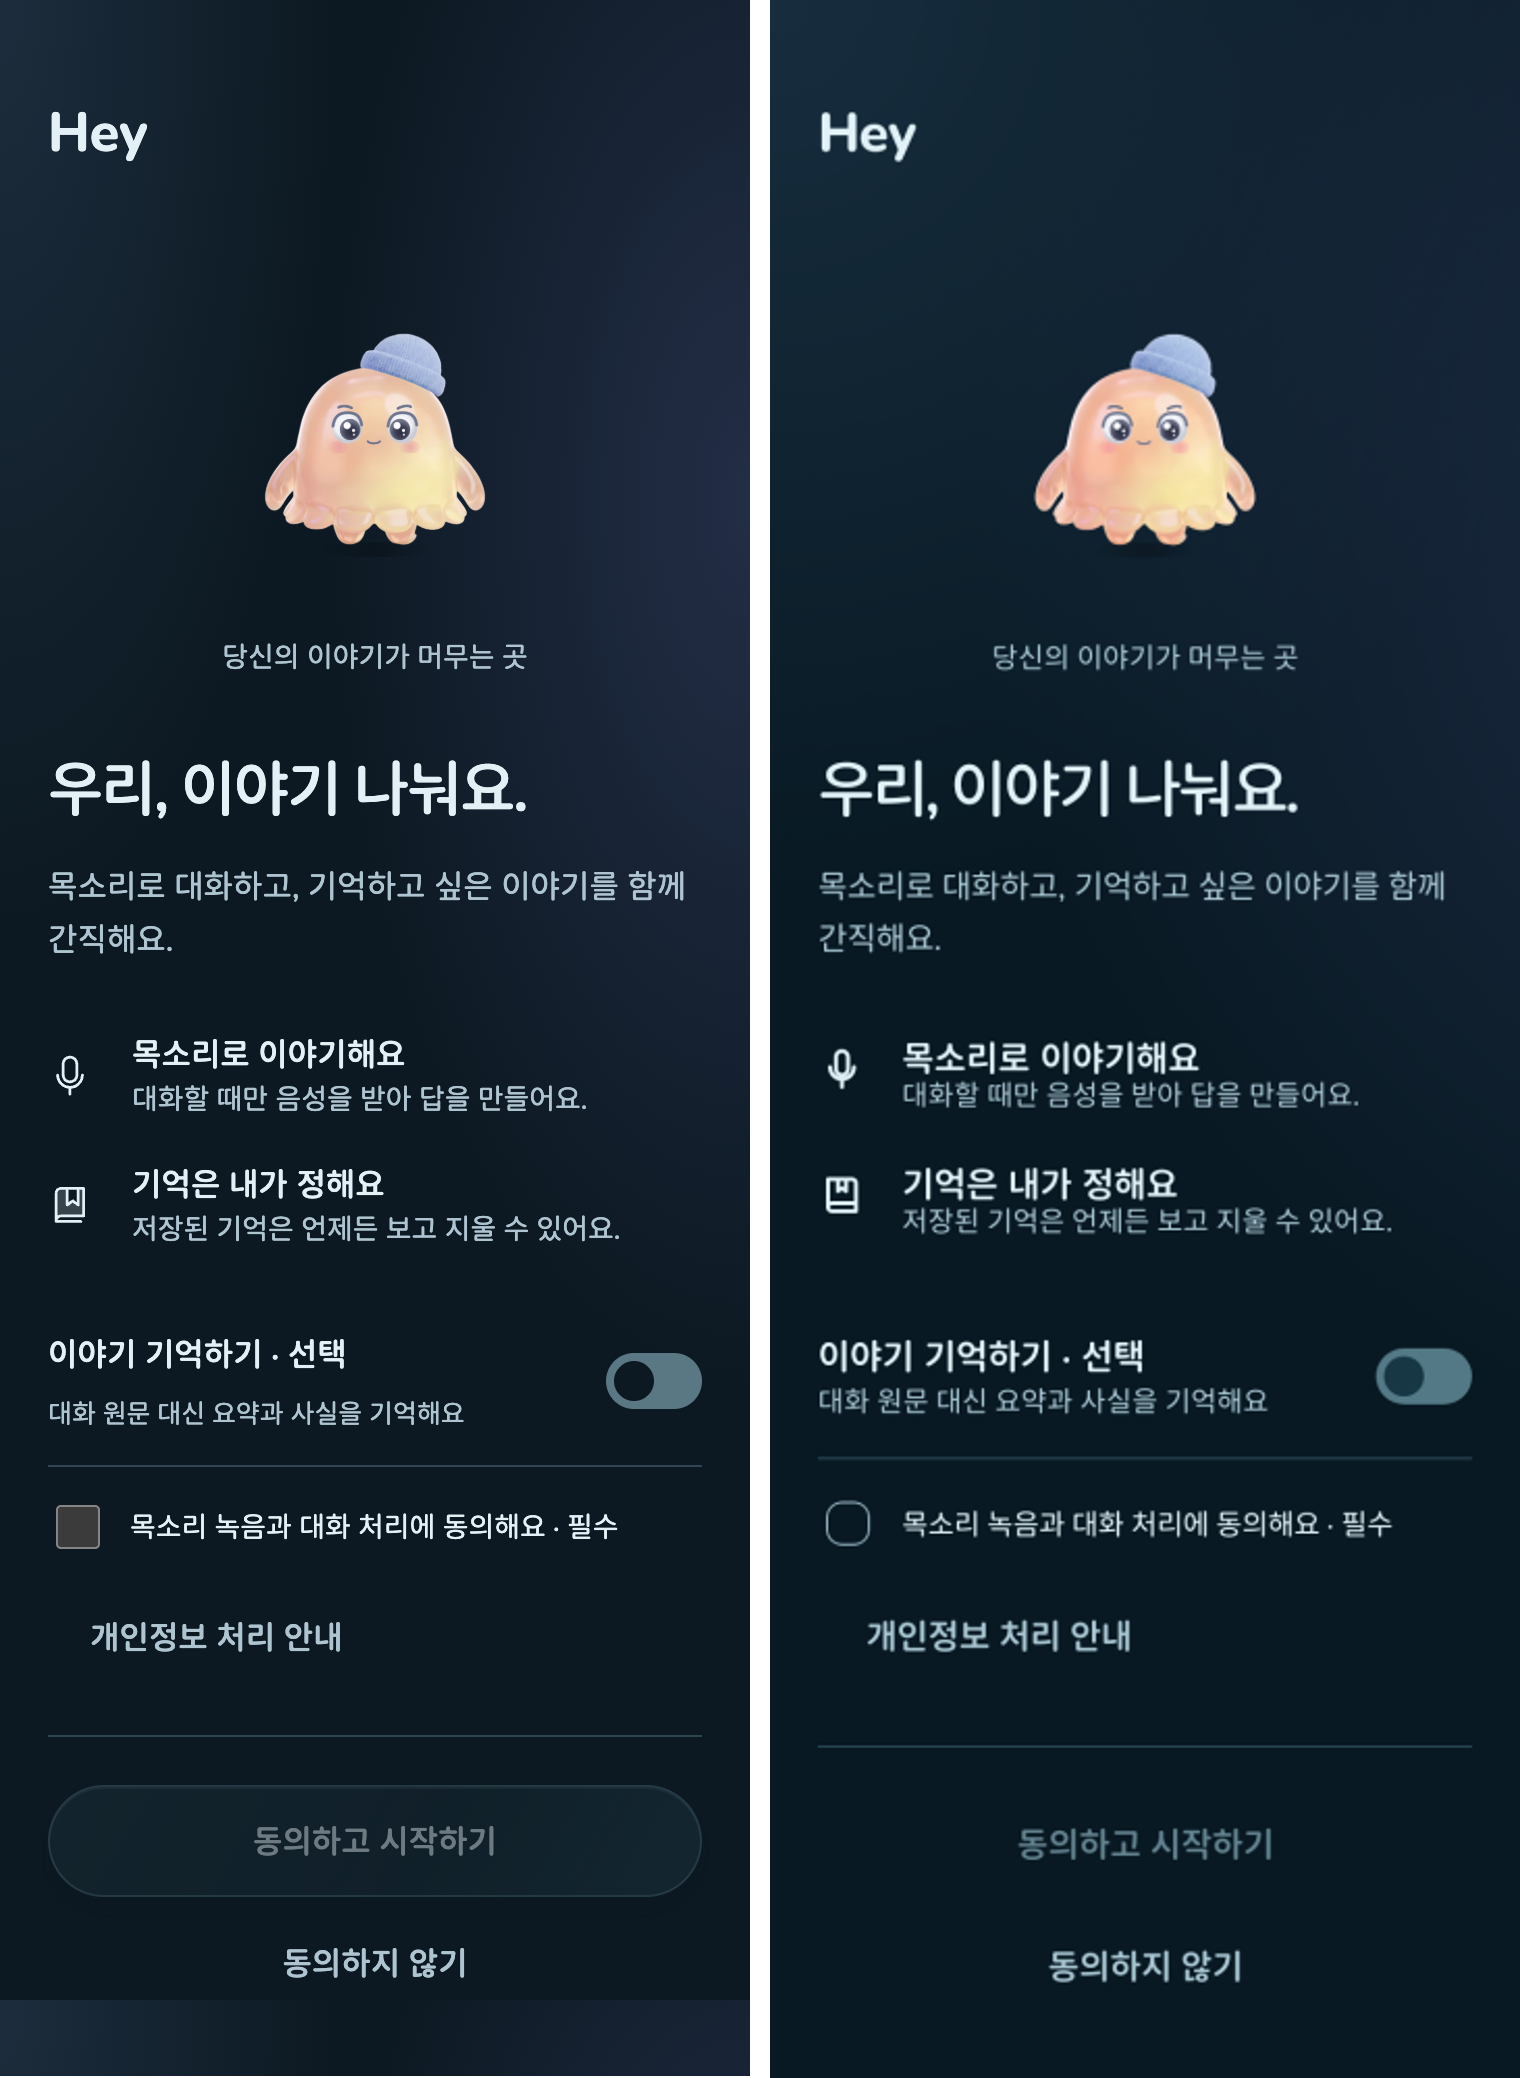
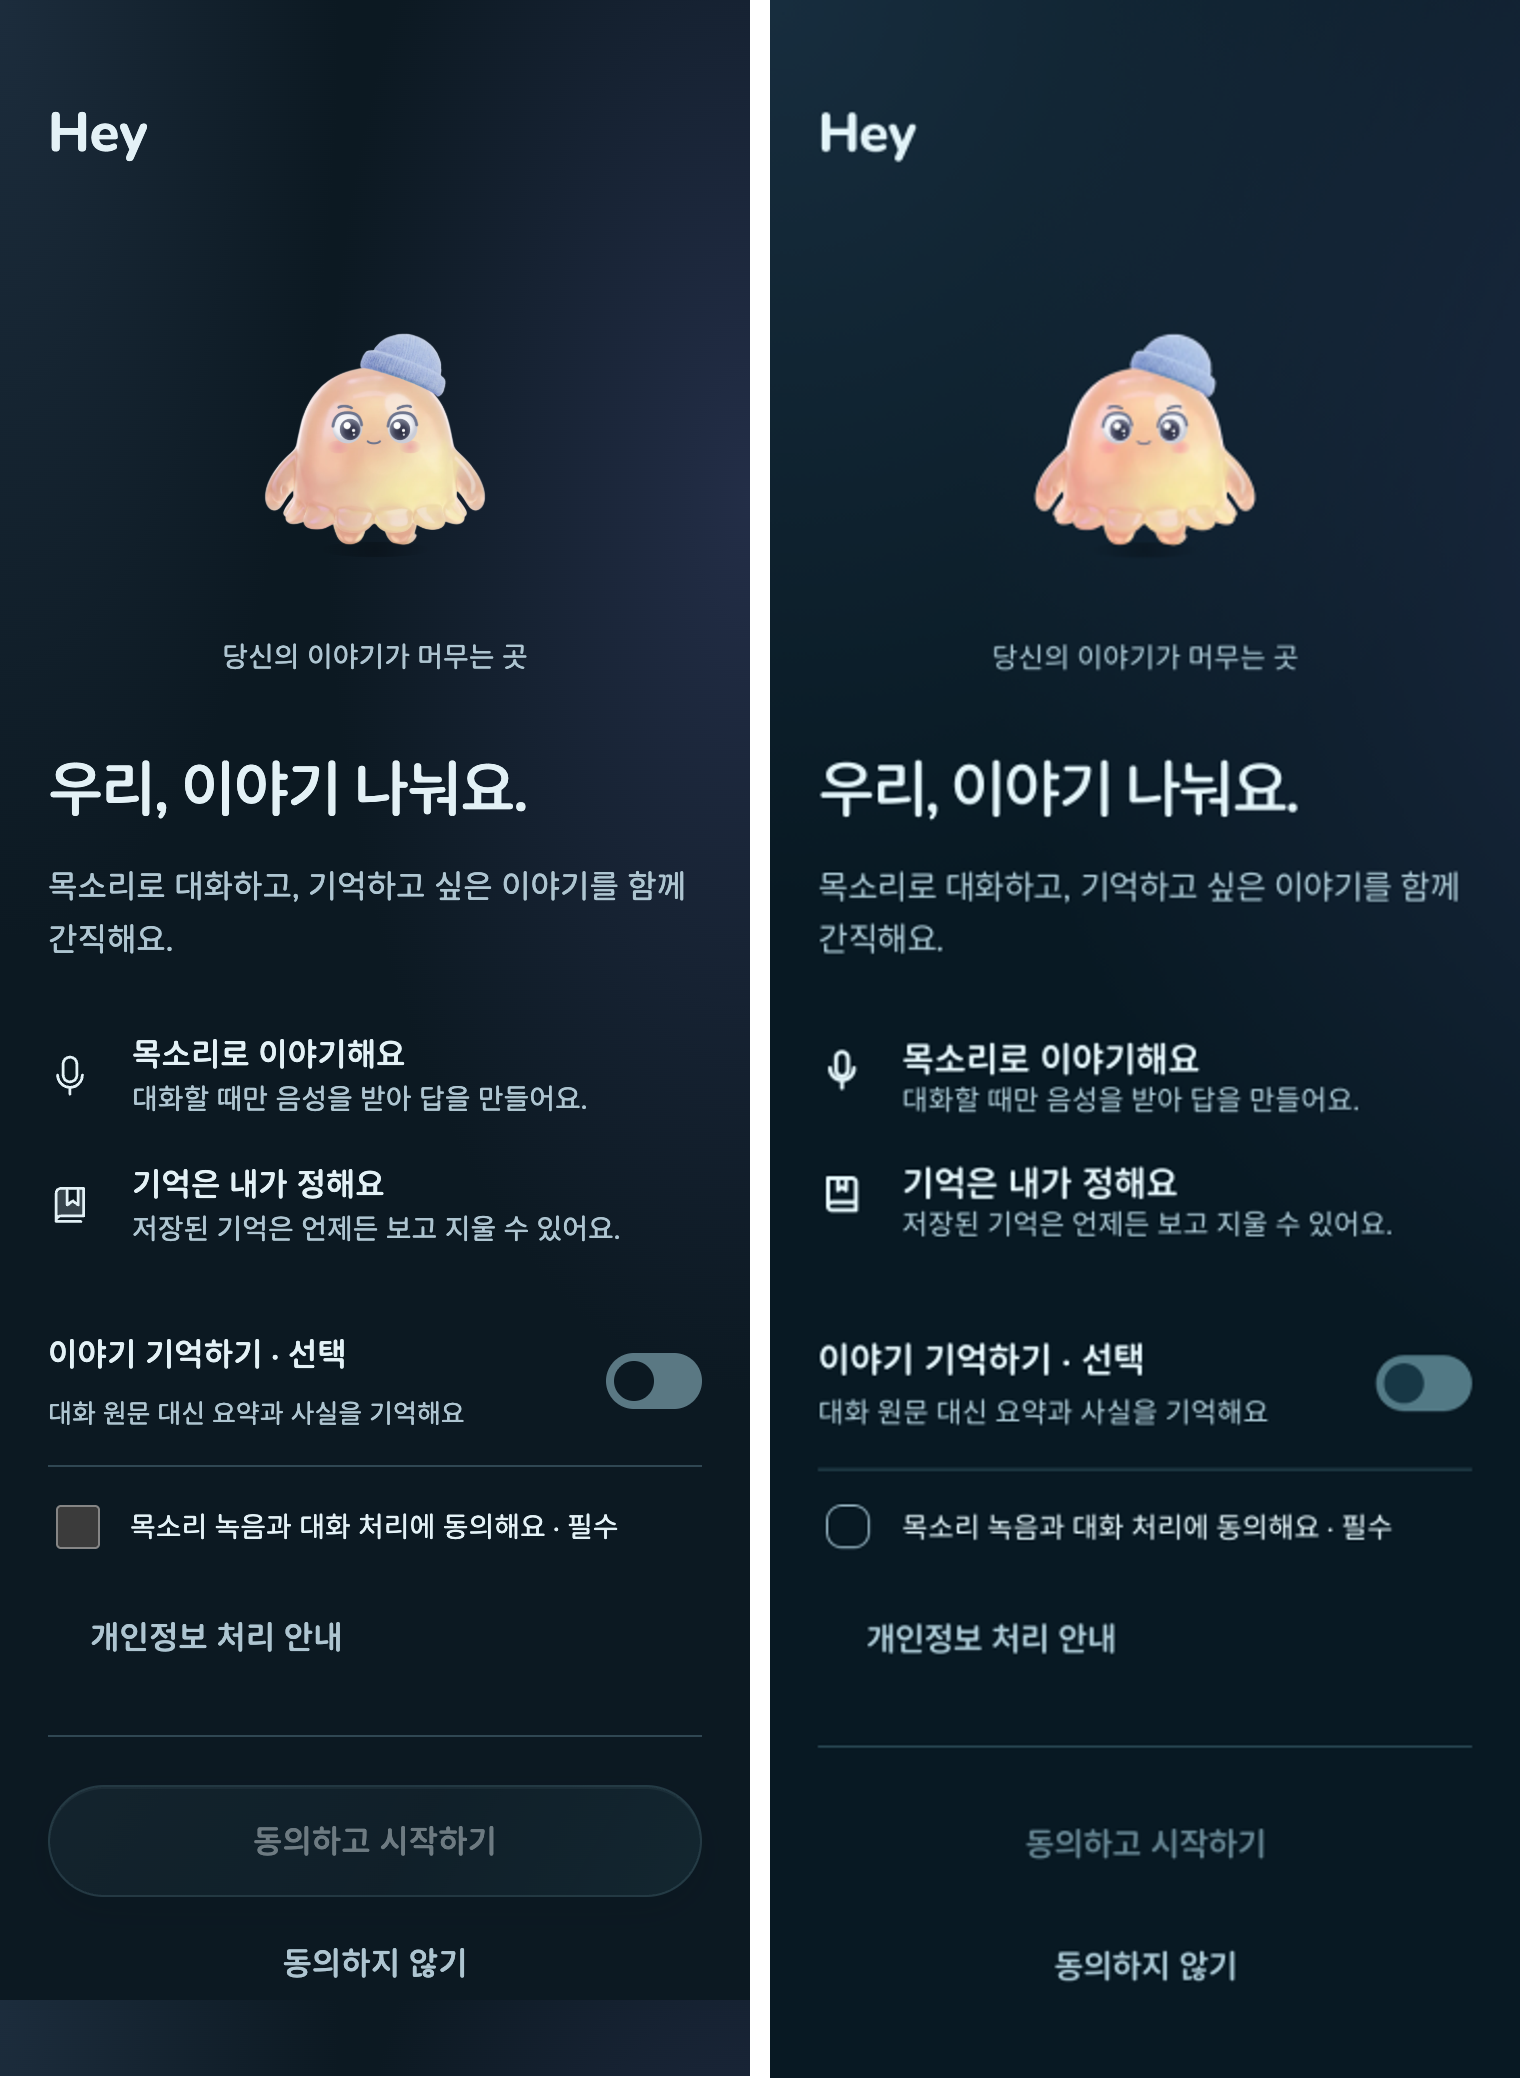
PLEOS-152: W1/W2 mockup fidelity (<=3 dp), evidence (#3)

diff --git a/app/src/main/kotlin/ai/hey/phone/ui/Components.kt b/app/src/main/kotlin/ai/hey/phone/ui/Components.kt
@@ -217,6 +217,7 @@ fun HeyButton(
     modifier: Modifier = Modifier,
     variant: HeyButtonVariant = HeyButtonVariant.Primary,
     enabled: Boolean = true,
+    textVariant: HeyTextVariant = HeyTextVariant.BodyStrong,
 ) {
     val c = HeyTheme.colors
     val shape = RoundedCornerShape(HeyTokens.Radius.full)
@@ -235,7 +236,7 @@ fun HeyButton(
             .clickable(enabled = enabled, role = Role.Button, onClick = onClick)
             .padding(horizontal = HeyTokens.Space.s24, vertical = HeyTokens.Space.s8),
         contentAlignment = Alignment.Center,
-    ) { InkText(text, ink, variant = HeyTextVariant.BodyStrong, maxLines = 2, align = TextAlign.Center) }
+    ) { InkText(text, ink, variant = textVariant, maxLines = 2, align = TextAlign.Center) }
 }
 
 /**
@@ -251,6 +252,7 @@ fun GlassButton(
     dimmed: Boolean = false,
     loading: Boolean = false,
     horizontalPadding: Dp = HeyTokens.Space.s32,
+    textVariant: HeyTextVariant = HeyTextVariant.BodyStrong,
 ) {
     val c = HeyTheme.colors
     val dark = HeyTheme.dark
@@ -276,7 +278,7 @@ fun GlassButton(
             if (loading) "…" else text,
             // Blocked-but-pressable (explains itself on press) must stay readable (>= 4.5): muted, not the disabled grey.
             if (!enabled) c.fgDisabled else if (blocked) c.fgMuted else c.fgOnAccent.takeIf { !dark } ?: c.fgDefault,
-            variant = HeyTextVariant.BodyStrong,
+            variant = textVariant,
             maxLines = 2,
             align = TextAlign.Center,
         )
@@ -304,7 +306,7 @@ fun ToggleRow(
             .heightIn(min = HeyTokens.Size.touchWeb)
             .padding(vertical = HeyTokens.Space.s12),
     ) {
-        VStack(HeyGap.G4, Modifier.weight(1f)) {
+        VStack(HeyGap.G8, Modifier.weight(1f)) {
             HeyText(label, variant = HeyTextVariant.PairRowTitle, tone = if (enabled) HeyTone.Default else HeyTone.Disabled)
             if (description != null) HeyText(description, variant = HeyTextVariant.PairCaption, tone = HeyTone.Muted)
         }

diff --git a/app/src/main/kotlin/ai/hey/phone/feature/pair/JoinScreen.kt b/app/src/main/kotlin/ai/hey/phone/feature/pair/JoinScreen.kt
@@ -96,8 +96,9 @@ fun JoinScreen(
                     dimmed = !ready.voice,
                     modifier = Modifier.fillMaxWidth(),
                     horizontalPadding = PairMetrics.BarPadH,
+                    textVariant = HeyTextVariant.PairAction,
                 )
-                HeyButton(stringResource(R.string.w1_decline), onDecline, variant = HeyButtonVariant.Text, enabled = !ready.saving)
+                HeyButton(stringResource(R.string.w1_decline), onDecline, variant = HeyButtonVariant.Text, enabled = !ready.saving, textVariant = HeyTextVariant.PairAction)
             }
         }),
     ) {
@@ -149,9 +150,9 @@ private fun Form(ui: JoinUi.Ready, onMemory: (Boolean) -> Unit, onVoice: (Boolea
         checked = ui.voice,
         onCheckedChange = onVoice,
         enabled = !ui.saving,
-        modifier = Modifier.padding(top = HeyGap.G8.value),
+        modifier = Modifier.padding(top = HeyGap.G4.value),
     )
-    HeyButton(stringResource(R.string.w1_policy), { providers = !providers }, variant = HeyButtonVariant.Text, modifier = Modifier.padding(top = HeyGap.G8.value))
+    HeyButton(stringResource(R.string.w1_policy), { providers = !providers }, variant = HeyButtonVariant.Text, textVariant = HeyTextVariant.PairAction, modifier = Modifier.padding(top = HeyGap.G8.value))
     if (providers) {
         VStack(HeyGap.G8, Modifier.padding(top = HeyGap.G8.value)) {
             HeyText(stringResource(R.string.w1_notice_voice), variant = HeyTextVariant.PairCaption, tone = HeyTone.Muted)

diff --git a/app/src/main/kotlin/ai/hey/phone/ui/PairParts.kt b/app/src/main/kotlin/ai/hey/phone/ui/PairParts.kt
@@ -33,7 +33,7 @@ fun InfoRow(icon: ImageVector, title: String, body: String, modifier: Modifier =
         Box(Modifier.width(42.dp).padding(top = HeyTokens.Space.s4), contentAlignment = Alignment.TopStart) {
             HeyIcon(icon, null)
         }
-        Column(Modifier.weight(1f)) {
+        Column(Modifier.weight(1f), verticalArrangement = Arrangement.spacedBy(2.dp)) {
             HeyText(title, variant = HeyTextVariant.PairRowTitle)
             HeyText(body, variant = HeyTextVariant.PairCaption, tone = HeyTone.Muted)
         }
@@ -108,7 +108,7 @@ object PairMetrics {
     val TitleTop = 39.dp
     val LeadTop = 21.dp
     val InfoTop = 40.dp
-    val InfoGap = 26.dp
+    val InfoGap = 23.dp
     val ActionButtonHeight = 56.dp
     val DoneButtonTop = 38.dp
     val DoneButtonPadding = 21.dp

diff --git a/app/src/main/kotlin/ai/hey/phone/ui/HeyTheme.kt b/app/src/main/kotlin/ai/hey/phone/ui/HeyTheme.kt
@@ -47,10 +47,12 @@ enum class HeyTextVariant(val size: TextUnit, val lineHeight: TextUnit, val weig
     DialogBody(19.sp, 28.sp, 400, 0f),
     // W1/W2 mockup sizes, measured from delivery-v05 W1.png/W2.png (px / 2 = dp).
     PairTitle(31.sp, 44.sp, 500, -0.055f),
-    PairLead(16.sp, 26.sp, 400, 0f),
+    PairLead(16.47.sp, 26.sp, 400, 0.016f),
     PairRowTitle(17.5.sp, 22.sp, 600, 0f),
     PairCaption(14.sp, 22.sp, 400, 0f),
-    PairBody(14.2.sp, 26.sp, 400, 0f),
+    PairBody(14.1.sp, 26.sp, 400, 0f),
+    /** Text of the W1/W2 buttons: the mockup's 600-weight label measures 16.2 sp. */
+    PairAction(16.2.sp, 26.sp, 600, 0f),
 }
 
 enum class HeyTone { Default, Muted, Subtle, Disabled, Accent, Danger, OnPrimary }

diff --git a/app/src/main/kotlin/ai/hey/phone/feature/pair/DoneScreen.kt b/app/src/main/kotlin/ai/hey/phone/feature/pair/DoneScreen.kt
@@ -38,6 +38,7 @@ fun DoneScreen(onOpenMemory: () -> Unit) {
             onOpenMemory,
             Modifier.padding(top = PairMetrics.DoneButtonTop),
             horizontalPadding = PairMetrics.DoneButtonPadding,
+            textVariant = HeyTextVariant.PairAction,
         )
         HeyText(
             stringResource(R.string.w2_note),

diff --git a/docs/status/2026-11-14-prod-plan/evidence/PhonePair/fidelity-table.md b/docs/status/2026-11-14-prod-plan/evidence/PhonePair/fidelity-table.md
@@ -1,0 +1,41 @@
+# PhonePair W1/W2 — 목업 대비 치수 (dp, 2x 목업 px / 2, 라이트)
+
+측정: 목업 PNG와 Paparazzi 렌더에서 요소별 잉크 상자(y0, y1, x0, x1)를 같은 방법으로 잰 뒤 줄 번호가 아니라 내용 이름으로 짝을 맞췄다. 차이 = 앱 − 목업. 전 = PR #2 머지 상태, 후 = 이 PR.
+최대 |차이|: 전 9 dp → 후 3 dp.
+
+## W1
+
+| 요소 | 목업 | 앱(후) | 차이 전 | 차이 후 |
+|---|---|---|---|---|
+| Hey 워드마크 | 56,80,26,73 | 56,81,26,73 | 0,1,0,0 | 0,1,0,0 |
+| 캐릭터 | 168,278,133,240 | 168,278,133,240 | 1,0,0,-1 | 1,0,0,-1 |
+| 캡션 '당신의 이야기가…' | 322,334,112,263 | 322,336,112,263 | 1,1,0,0 | 1,1,0,0 |
+| 제목 '우리, 이야기 나눠요.' | 380,410,25,262 | 380,410,25,263 | 0,1,0,0 | 0,1,0,0 |
+| 부제 1줄 | 436,451,24,342 | 435,452,25,343 | 0,0,0,-6 | 0,1,0,1 |
+| 부제 2줄 | 462,477,25,86 | 461,477,25,85 | -1,0,0,-1 | -1,0,0,0 |
+| 정보 행 '목소리로 이야기해요' | 520,556,28,292 | 521,556,29,293 | 1,-2,1,0 | 2,0,1,0 |
+| 정보 행 '기억은 내가 정해요' | 584,620,27,309 | 583,618,28,310 | -1,-3,1,1 | -2,-2,1,1 |
+| 토글 '이야기 기억하기 · 선택' | 670,712,25,350 | 671,713,25,350 | 1,-6,0,0 | 2,0,0,0 |
+| 체크 행 '목소리 녹음과…' | 752,774,28,308 | 752,774,28,310 | -2,-2,0,2 | 0,-1,0,2 |
+| '개인정보 처리 안내' | 811,826,46,170 | 811,827,49,171 | -2,0,3,9 | 0,1,3,2 |
+| '동의하고 시작하기' | 913,928,127,246 | 914,930,128,246 | 1,2,-2,3 | 1,2,1,0 |
+| '동의하지 않기' | 974,989,142,232 | 975,991,142,232 | 0,2,-3,2 | 1,2,0,0 |
+
+## W2
+
+| 요소 | 목업 | 앱(후) | 차이 전 | 차이 후 |
+|---|---|---|---|---|
+| Hey 워드마크 | 56,80,26,73 | 56,81,26,72 | 0,0,0,-1 | 0,0,0,-1 |
+| 캐릭터 | 168,278,140,248 | 168,278,141,248 | 0,0,0,0 | 0,0,0,0 |
+| 캡션 '당신의 이야기가…' | 322,334,120,270 | 322,335,119,270 | 0,0,0,0 | 0,0,0,0 |
+| 제목 '이제, 함께해요.' | 380,410,26,202 | 379,410,26,203 | -1,0,0,1 | -1,0,0,1 |
+| 부제 '차 안에서 나눈 이야기…' | 436,451,24,354 | 435,451,25,355 | 0,-1,0,-6 | 0,0,0,1 |
+| 버튼 '우리의 기억 보기' | 506,521,46,154 | 507,522,46,153 | 0,1,0,6 | 1,1,0,-2 |
+| 안내 '대화는 차량에서…' | 566,579,105,285 | 566,579,104,285 | 0,0,-1,0 | 0,0,-1,0 |
+
+## 원인과 조치
+
+- 부제 줄 폭(W1·W2 −6): 글자 크기 16.0 → 16.47 sp, 자간 +0.016 em. 폭이 목업과 1 dp 안으로 들어왔다.
+- 체크 행과 개인정보 안내(W1 위치 −2, 가로 끝 +9): 체크 행 위 간격 8 → 4 dp, 안내 버튼 글자를 `PairAction`(16.2 sp, 600)으로. 안내 가로 끝이 +2로 줄었다.
+- 토글 행 아래쪽(W1 −6): 라벨·설명 간격 4 → 8 dp. 정보 행 제목·설명 간격은 2 dp.
+- 버튼 글자(W2 +6, W1 시작 +3): `GlassButton`·`HeyButton`에 `textVariant` 인자를 추가하고 `PairAction`을 적용했다.
